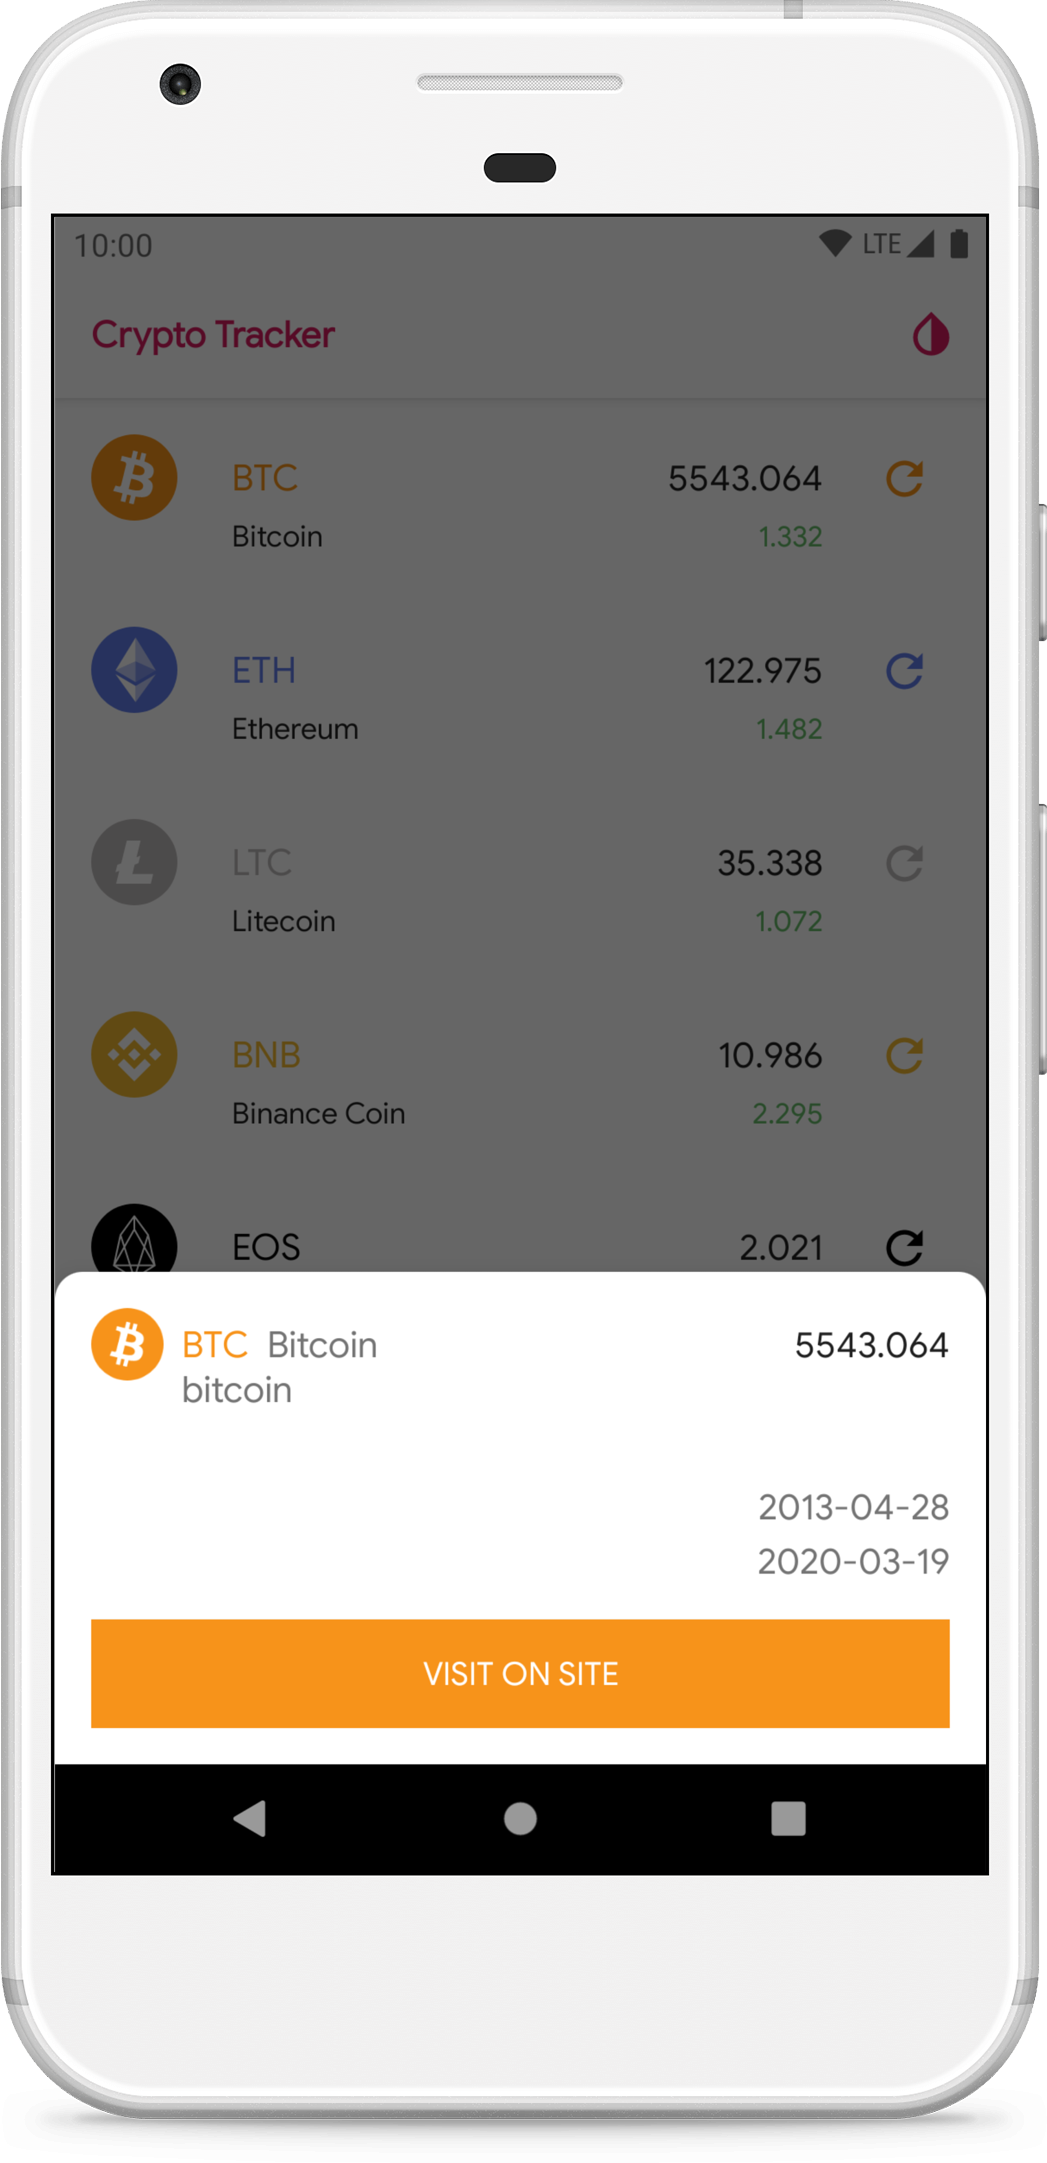
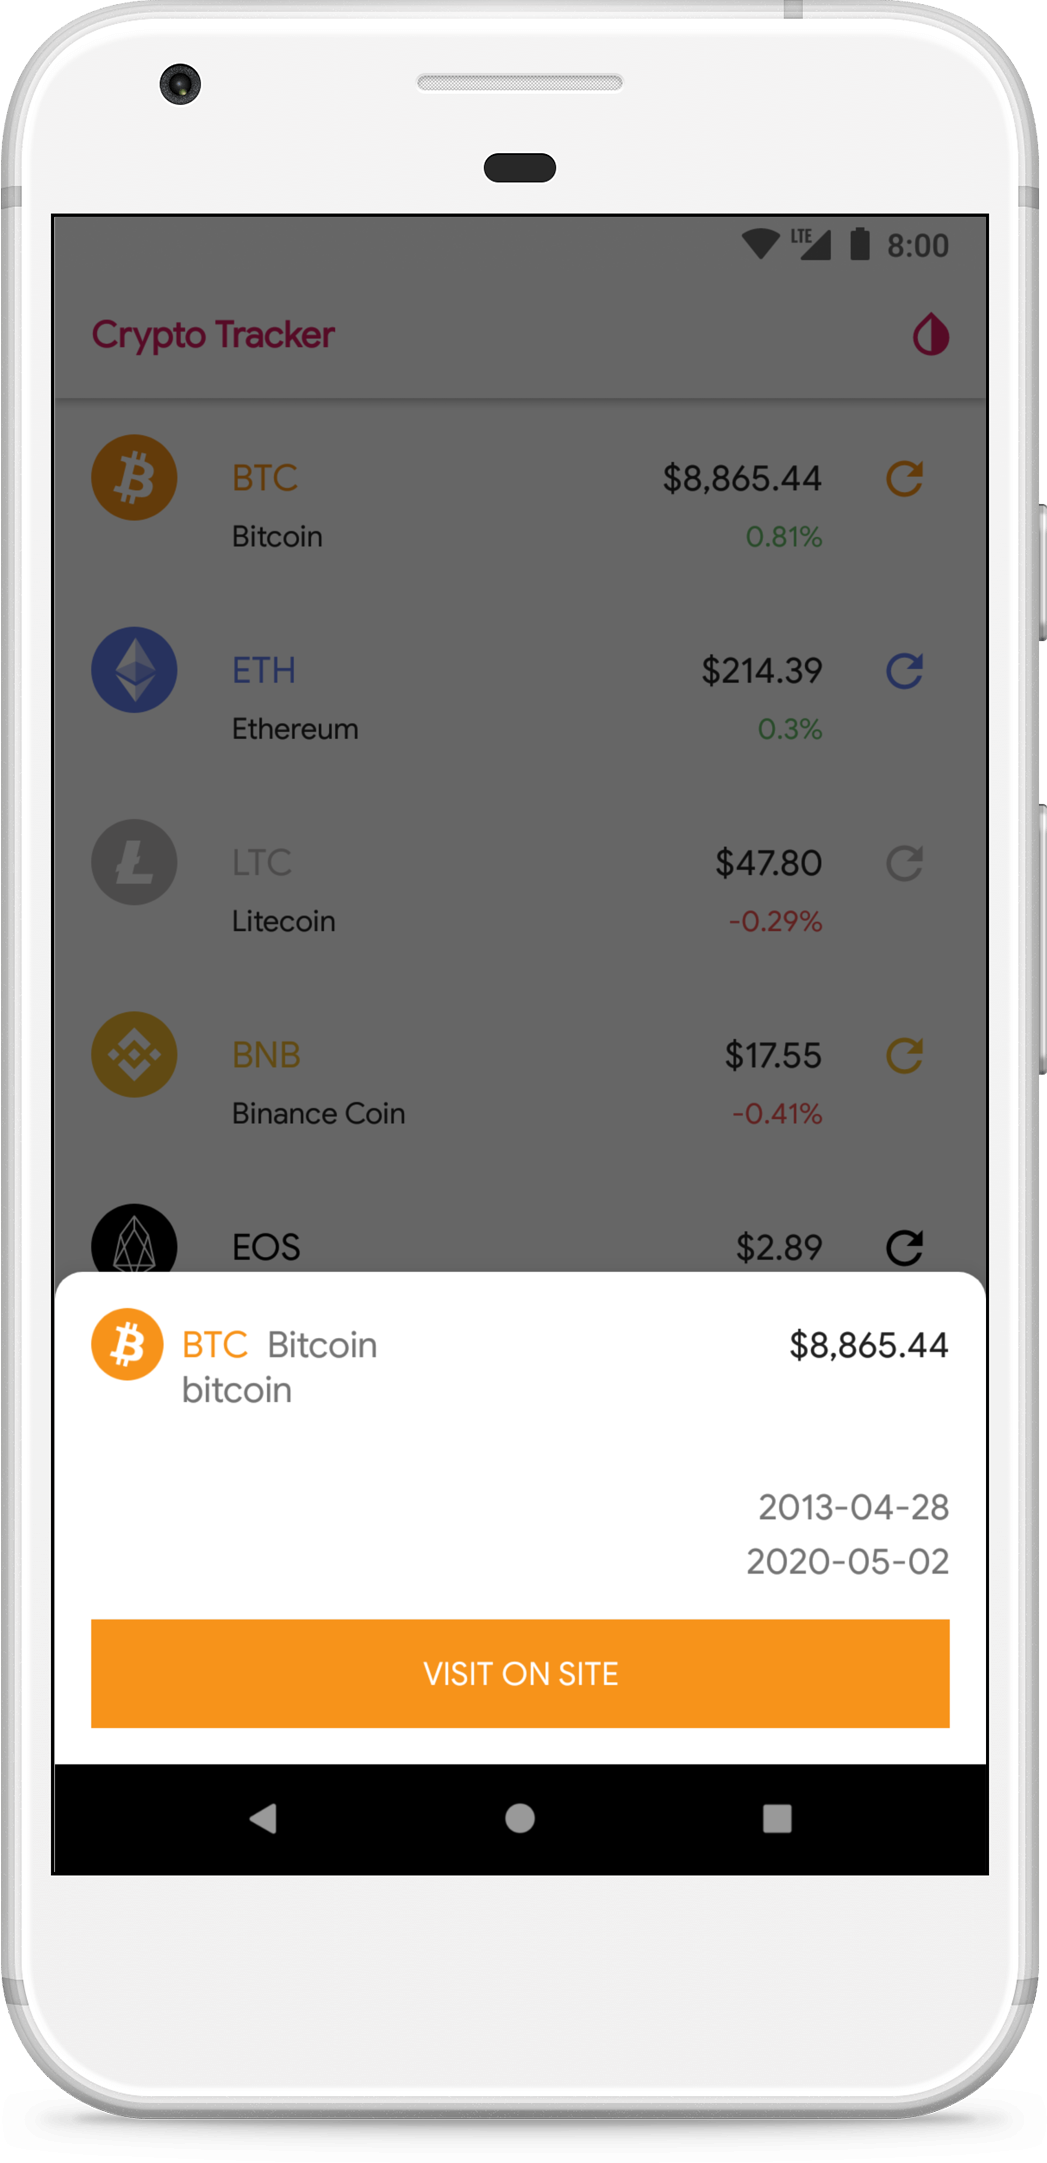
2020-05-02 Version 2.3.0: Refactored project structure and updated UI

diff --git a/app/src/main/java/com/smlnskgmail/jaman/cryptotracker/model/impl/currency/coinmarketcup/deserializers/CurrencyListingResponseDeserializer.kt b/app/src/main/java/com/smlnskgmail/jaman/cryptotracker/model/impl/currency/coinmarketcup/deserializers/CurrencyListingResponseDeserializer.kt
@@ -1,10 +1,11 @@
 package com.smlnskgmail.jaman.cryptotracker.model.impl.currency.coinmarketcup.deserializers
 
-import com.google.gson.Gson
 import com.google.gson.JsonDeserializationContext
 import com.google.gson.JsonDeserializer
 import com.google.gson.JsonElement
-import com.google.gson.reflect.TypeToken
+import com.google.gson.JsonObject
+import com.smlnskgmail.jaman.cryptotracker.model.api.currency.CurrencyPricePercentChangeDay
+import com.smlnskgmail.jaman.cryptotracker.model.api.currency.CurrencyPrice
 import com.smlnskgmail.jaman.cryptotracker.model.impl.currency.coinmarketcup.CmcCurrencyListing
 import com.smlnskgmail.jaman.cryptotracker.model.impl.currency.coinmarketcup.retrofit.responses.CurrencyListingResponse
 import java.lang.reflect.Type
@@ -16,18 +17,19 @@ class CurrencyListingResponseDeserializer : JsonDeserializer<CurrencyListingResp
         typeOfT: Type?,
         context: JsonDeserializationContext?
     ): CurrencyListingResponse {
-        val gson = Gson()
-
-        val currencyListingTypeToken = object : TypeToken<CmcCurrencyListing>() {}.type
-
         val dataJson = json!!.asJsonObject.get("data")
         val quoteUSD = dataJson.asJsonObject.entrySet().first()
             .value.asJsonObject
             .get("quote").asJsonObject
-            .get("USD")
-        val currencyListing: CmcCurrencyListing = gson.fromJson(
-            quoteUSD,
-            currencyListingTypeToken
+            .get("USD") as JsonObject
+
+        val currencyListing = CmcCurrencyListing(
+            CurrencyPrice(
+                quoteUSD.get("price").asFloat
+            ),
+            CurrencyPricePercentChangeDay(
+                quoteUSD.get("percent_change_24h").asFloat
+            )
         )
         return CurrencyListingResponse(
             currencyListing

diff --git a/app/src/main/java/com/smlnskgmail/jaman/cryptotracker/model/impl/currency/coinmarketcup/deserializers/CurrencyResponseDeserializer.kt b/app/src/main/java/com/smlnskgmail/jaman/cryptotracker/model/impl/currency/coinmarketcup/deserializers/CurrencyResponseDeserializer.kt
@@ -6,7 +6,8 @@ import com.google.gson.JsonDeserializer
 import com.google.gson.JsonElement
 import com.google.gson.reflect.TypeToken
 import com.smlnskgmail.jaman.cryptotracker.model.api.currency.Currency
-import com.smlnskgmail.jaman.cryptotracker.model.api.currency.CurrencyPriceValue
+import com.smlnskgmail.jaman.cryptotracker.model.api.currency.CurrencyPricePercentChangeDay
+import com.smlnskgmail.jaman.cryptotracker.model.api.currency.CurrencyPrice
 import com.smlnskgmail.jaman.cryptotracker.model.api.currency.CurrencyType
 import com.smlnskgmail.jaman.cryptotracker.model.impl.currency.coinmarketcup.CmcCurrency
 import com.smlnskgmail.jaman.cryptotracker.model.impl.currency.coinmarketcup.CmcCurrencyListing
@@ -40,14 +41,14 @@ class CurrencyResponseDeserializer : JsonDeserializer<CurrencyResponse> {
                 .get("USD")
                 .asJsonObject
             val currencyListing = CmcCurrencyListing(
-                CurrencyPriceValue(
+                CurrencyPrice(
                     priceInfo.get(
                         "price"
                     ).asFloat
                 ),
-                CurrencyPriceValue(
+                CurrencyPricePercentChangeDay(
                     priceInfo.get(
-                        "percent_change_1h"
+                        "percent_change_24h"
                     ).asFloat
                 )
             )

diff --git a/app/src/main/java/com/smlnskgmail/jaman/cryptotracker/model/impl/currency/debug/DebugCurrency.kt b/app/src/main/java/com/smlnskgmail/jaman/cryptotracker/model/impl/currency/debug/DebugCurrency.kt
@@ -1,9 +1,6 @@
 package com.smlnskgmail.jaman.cryptotracker.model.impl.currency.debug
 
-import com.smlnskgmail.jaman.cryptotracker.model.api.currency.Currency
-import com.smlnskgmail.jaman.cryptotracker.model.api.currency.CurrencyListing
-import com.smlnskgmail.jaman.cryptotracker.model.api.currency.CurrencyPriceValue
-import com.smlnskgmail.jaman.cryptotracker.model.api.currency.CurrencyType
+import com.smlnskgmail.jaman.cryptotracker.model.api.currency.*
 
 // CPD-OFF
 class DebugCurrency(
@@ -48,14 +45,14 @@ class DebugCurrency(
         if (currencyListing == null) {
             currencyListing = object :
                 CurrencyListing {
-                override fun currentPrice(): CurrencyPriceValue {
-                    return CurrencyPriceValue(
+                override fun currentPrice(): CurrencyPrice {
+                    return CurrencyPrice(
                         1000.751f
                     )
                 }
 
-                override fun changeHour(): CurrencyPriceValue {
-                    return CurrencyPriceValue(
+                override fun changeHour(): CurrencyPricePercentChangeDay {
+                    return CurrencyPricePercentChangeDay(
                         0.19f
                     )
                 }

diff --git a/app/src/main/java/com/smlnskgmail/jaman/cryptotracker/model/impl/currency/coinmarketcup/cache/CmcCurrencyMapDbInstanceProvider.kt b/app/src/main/java/com/smlnskgmail/jaman/cryptotracker/model/impl/currency/coinmarketcup/cache/CmcCurrencyMapDbInstanceProvider.kt
@@ -2,7 +2,8 @@ package com.smlnskgmail.jaman.cryptotracker.model.impl.currency.coinmarketcup.ca
 
 import com.smlnskgmail.jaman.cryptotracker.model.api.cache.CurrencyInstanceProvider
 import com.smlnskgmail.jaman.cryptotracker.model.api.currency.Currency
-import com.smlnskgmail.jaman.cryptotracker.model.api.currency.CurrencyPriceValue
+import com.smlnskgmail.jaman.cryptotracker.model.api.currency.CurrencyPricePercentChangeDay
+import com.smlnskgmail.jaman.cryptotracker.model.api.currency.CurrencyPrice
 import com.smlnskgmail.jaman.cryptotracker.model.api.currency.CurrencyType
 import com.smlnskgmail.jaman.cryptotracker.model.impl.currency.coinmarketcup.CmcCurrency
 import com.smlnskgmail.jaman.cryptotracker.model.impl.currency.coinmarketcup.CmcCurrencyListing
@@ -46,10 +47,10 @@ class CmcCurrencyMapDbInstanceProvider : CurrencyInstanceProvider {
             reader.readUTF(),
             reader.readUTF(),
             CmcCurrencyListing(
-                CurrencyPriceValue(
+                CurrencyPrice(
                     reader.readFloat()
                 ),
-                CurrencyPriceValue(
+                CurrencyPricePercentChangeDay(
                     reader.readFloat()
                 )
             ),

diff --git a/app/src/main/java/com/smlnskgmail/jaman/cryptotracker/model/impl/currency/coinmarketcup/CmcCurrencyListing.kt b/app/src/main/java/com/smlnskgmail/jaman/cryptotracker/model/impl/currency/coinmarketcup/CmcCurrencyListing.kt
@@ -1,11 +1,12 @@
 package com.smlnskgmail.jaman.cryptotracker.model.impl.currency.coinmarketcup
 
 import com.smlnskgmail.jaman.cryptotracker.model.api.currency.CurrencyListing
-import com.smlnskgmail.jaman.cryptotracker.model.api.currency.CurrencyPriceValue
+import com.smlnskgmail.jaman.cryptotracker.model.api.currency.CurrencyPricePercentChangeDay
+import com.smlnskgmail.jaman.cryptotracker.model.api.currency.CurrencyPrice
 
 data class CmcCurrencyListing(
-    private val currentPrice: CurrencyPriceValue,
-    private val changeHourPrice: CurrencyPriceValue
+    private val currentPrice: CurrencyPrice,
+    private val changeHourPrice: CurrencyPricePercentChangeDay
 ) : CurrencyListing {
 
     companion object {
@@ -15,11 +16,11 @@ data class CmcCurrencyListing(
 
     }
 
-    override fun currentPrice(): CurrencyPriceValue {
+    override fun currentPrice(): CurrencyPrice {
         return currentPrice
     }
 
-    override fun changeHour(): CurrencyPriceValue {
+    override fun changeHour(): CurrencyPricePercentChangeDay {
         return changeHourPrice
     }
 

diff --git a/app/src/main/java/com/smlnskgmail/jaman/cryptotracker/view/info/BottomSheetCurrencyInfo.kt b/app/src/main/java/com/smlnskgmail/jaman/cryptotracker/view/info/BottomSheetCurrencyInfo.kt
@@ -32,7 +32,7 @@ class BottomSheetCurrencyInfo : BaseThemeBottomSheet(), CurrencyInfoView {
         currencyInfoPresenter = CurrencyInfoPresenterImpl()
         currencyInfoPresenter.init(
             this,
-            arguments!!.getSerializable("currency") as Currency
+            requireArguments().getSerializable("currency") as Currency
         )
     }
 
@@ -41,13 +41,13 @@ class BottomSheetCurrencyInfo : BaseThemeBottomSheet(), CurrencyInfoView {
     }
 
     override fun context(): Context {
-        return context!!
+        return requireContext()
     }
 
     override fun showCurrencyInfo(currency: Currency) {
         currency_image.setImageDrawable(
             ContextCompat.getDrawable(
-                context!!,
+                requireContext(),
                 currency.currencyType().iconResId
             )
         )

diff --git a/app/src/main/java/com/smlnskgmail/jaman/cryptotracker/view/list/CurrenciesListFragment.kt b/app/src/main/java/com/smlnskgmail/jaman/cryptotracker/view/list/CurrenciesListFragment.kt
@@ -47,7 +47,7 @@ class CurrenciesListFragment : BaseThemeFragment(), CurrenciesListView {
         currencies_list_refresh.isEnabled = false
         currencies_list_refresh.setColorSchemeColors(
             ContextCompat.getColor(
-                context!!,
+                requireContext(),
                 R.color.colorAccent
             )
         )
@@ -127,7 +127,7 @@ class CurrenciesListFragment : BaseThemeFragment(), CurrenciesListView {
         val bottomSheetCurrencyInfo = BottomSheetCurrencyInfo()
         bottomSheetCurrencyInfo.arguments = arguments
         bottomSheetCurrencyInfo.show(
-            activity!!.supportFragmentManager,
+            requireActivity().supportFragmentManager,
             BottomSheetCurrencyInfo::class.java.canonicalName
         )
     }

diff --git a/app/src/main/java/com/smlnskgmail/jaman/cryptotracker/view/list/recycler/CurrencyHolder.kt b/app/src/main/java/com/smlnskgmail/jaman/cryptotracker/view/list/recycler/CurrencyHolder.kt
@@ -40,11 +40,15 @@ class CurrencyHolder(
             accentColor
         )
         itemView.currency_refresh_listing.setOnClickListener {
-            currencyRefreshClickTarget.onCurrencyRefreshClick(currency)
+            currencyRefreshClickTarget.onCurrencyRefreshClick(
+                currency
+            )
         }
 
         itemView.setOnClickListener {
-            currencyClickTarget.onCurrencyClick(currency)
+            currencyClickTarget.onCurrencyClick(
+                currency
+            )
         }
 
         showCurrencyListing(

diff --git a/app/src/main/java/com/smlnskgmail/jaman/cryptotracker/model/api/currency/CurrencyPricePercentChangeDay.kt b/app/src/main/java/com/smlnskgmail/jaman/cryptotracker/model/api/currency/CurrencyPricePercentChangeDay.kt
@@ -2,16 +2,16 @@ package com.smlnskgmail.jaman.cryptotracker.model.api.currency
 
 import java.text.DecimalFormat
 
-class CurrencyPriceValue(
-    private val price: Float
+class CurrencyPricePercentChangeDay(
+    private val value: Float
 ) {
 
     fun value(): Float {
-        return price
+        return value
     }
 
     override fun toString(): String {
-        return DecimalFormat("0.###").format(price)
+        return "${DecimalFormat("0.##").format(value)}%"
     }
 
 }

diff --git a/app/src/main/java/com/smlnskgmail/jaman/cryptotracker/model/api/currency/CurrencyPrice.kt b/app/src/main/java/com/smlnskgmail/jaman/cryptotracker/model/api/currency/CurrencyPrice.kt
@@ -1,0 +1,23 @@
+package com.smlnskgmail.jaman.cryptotracker.model.api.currency
+
+import java.text.NumberFormat
+import java.util.*
+
+class CurrencyPrice(
+    private val price: Float
+) {
+
+    fun value(): Float {
+        return price
+    }
+
+    override fun toString(): String {
+        val numberFormat = NumberFormat.getCurrencyInstance(
+            Locale.US
+        )
+        return numberFormat.format(
+            price
+        )
+    }
+
+}

diff --git a/app/src/main/java/com/smlnskgmail/jaman/cryptotracker/presenter/list/CurrenciesListPresenterImpl.kt b/app/src/main/java/com/smlnskgmail/jaman/cryptotracker/presenter/list/CurrenciesListPresenterImpl.kt
@@ -60,6 +60,9 @@ class CurrenciesListPresenterImpl : CurrenciesListPresenter {
                         currencies
                     )
                 } else {
+                    currenciesListView.showCurrencies(
+                        emptyList()
+                    )
                     currenciesListView.showLoadError()
                 }
                 action()

diff --git a/app/src/main/java/com/smlnskgmail/jaman/cryptotracker/components/BaseThemeFragment.kt b/app/src/main/java/com/smlnskgmail/jaman/cryptotracker/components/BaseThemeFragment.kt
@@ -18,7 +18,7 @@ abstract class BaseThemeFragment : Fragment() {
         val contextThemeWrapper = ContextThemeWrapper(
             activity,
             PreferencesManager.theme(
-                context!!
+                requireContext()
             ).themeResId
         )
         val localInflater = inflater.cloneInContext(
